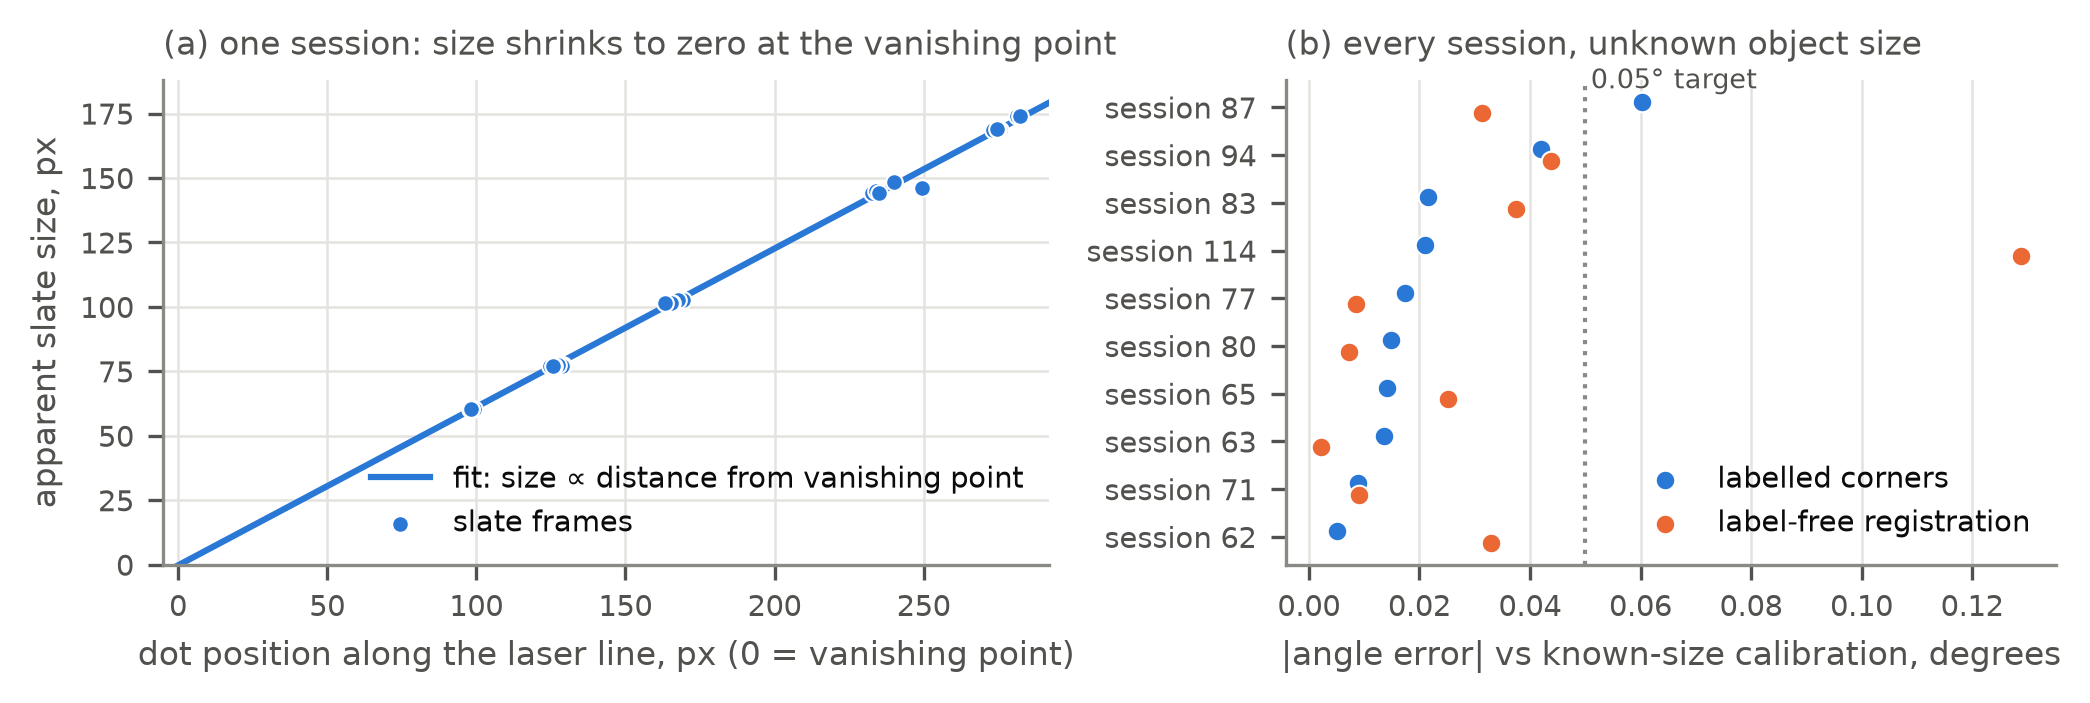
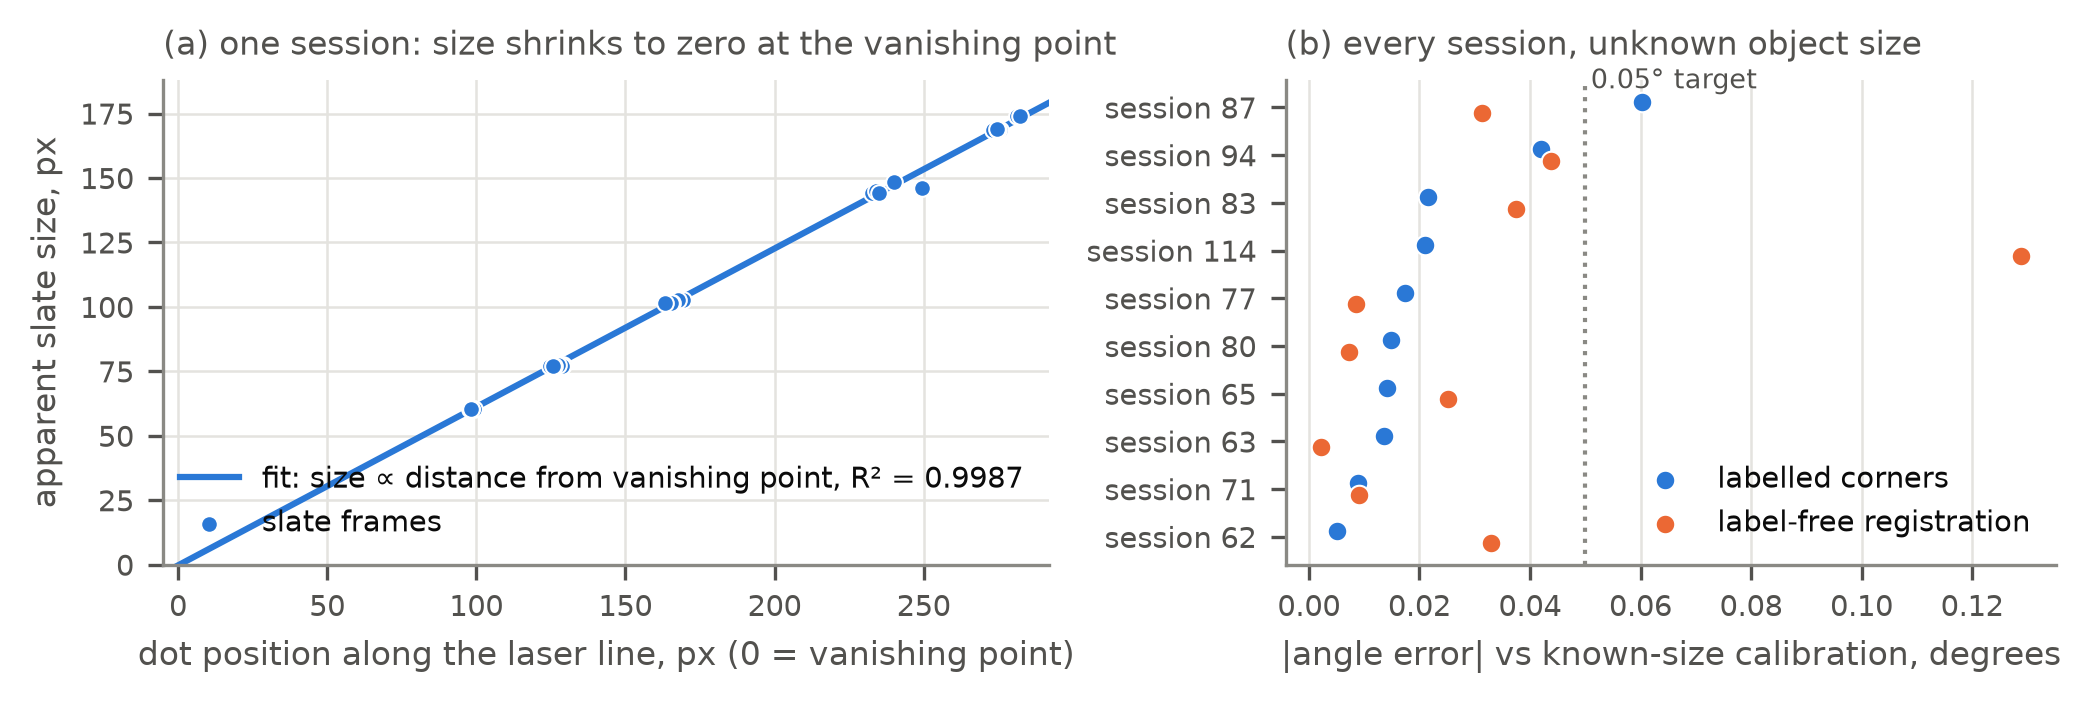
fig: report R² of the Fig 3a size-constancy fit

Changed region(s): [[0.0622, 0.6572, 0.4976, 0.7767]]

diff --git a/figures/make_figures.py b/figures/make_figures.py
@@ -140,7 +140,9 @@ def fig3_size_constancy():
     t0 = ex["tv_true"]; x = ex["t"] - t0
     k = np.sum(ex["s"] * (ex["t"] - ex["tv"])) / np.sum((ex["t"] - ex["tv"]) ** 2)
     xx = np.linspace(min(ex["tv"] - t0, 0) - 5, x.max() + 10, 50)
-    a.plot(xx, k * (xx + t0 - ex["tv"]), color=BLUE, lw=1.5, label="fit: size ∝ distance from vanishing point")
+    pred = k * (ex["t"] - ex["tv"])
+    r2 = 1 - np.sum((ex["s"] - pred) ** 2) / np.sum((ex["s"] - ex["s"].mean()) ** 2)
+    a.plot(xx, k * (xx + t0 - ex["tv"]), color=BLUE, lw=1.5, label=f"fit: size ∝ distance from vanishing point, R² = {r2:.4f}")
     a.scatter(x, ex["s"], s=16, color=BLUE, edgecolor="white", linewidth=0.5, zorder=3, label="slate frames")
     a.set_xlim(xx.min(), xx.max()); a.set_ylim(0, ex["s"].max() * 1.08)
     a.set_xlabel("dot position along the laser line, px (0 = vanishing point)"); a.set_ylabel("apparent slate size, px")
